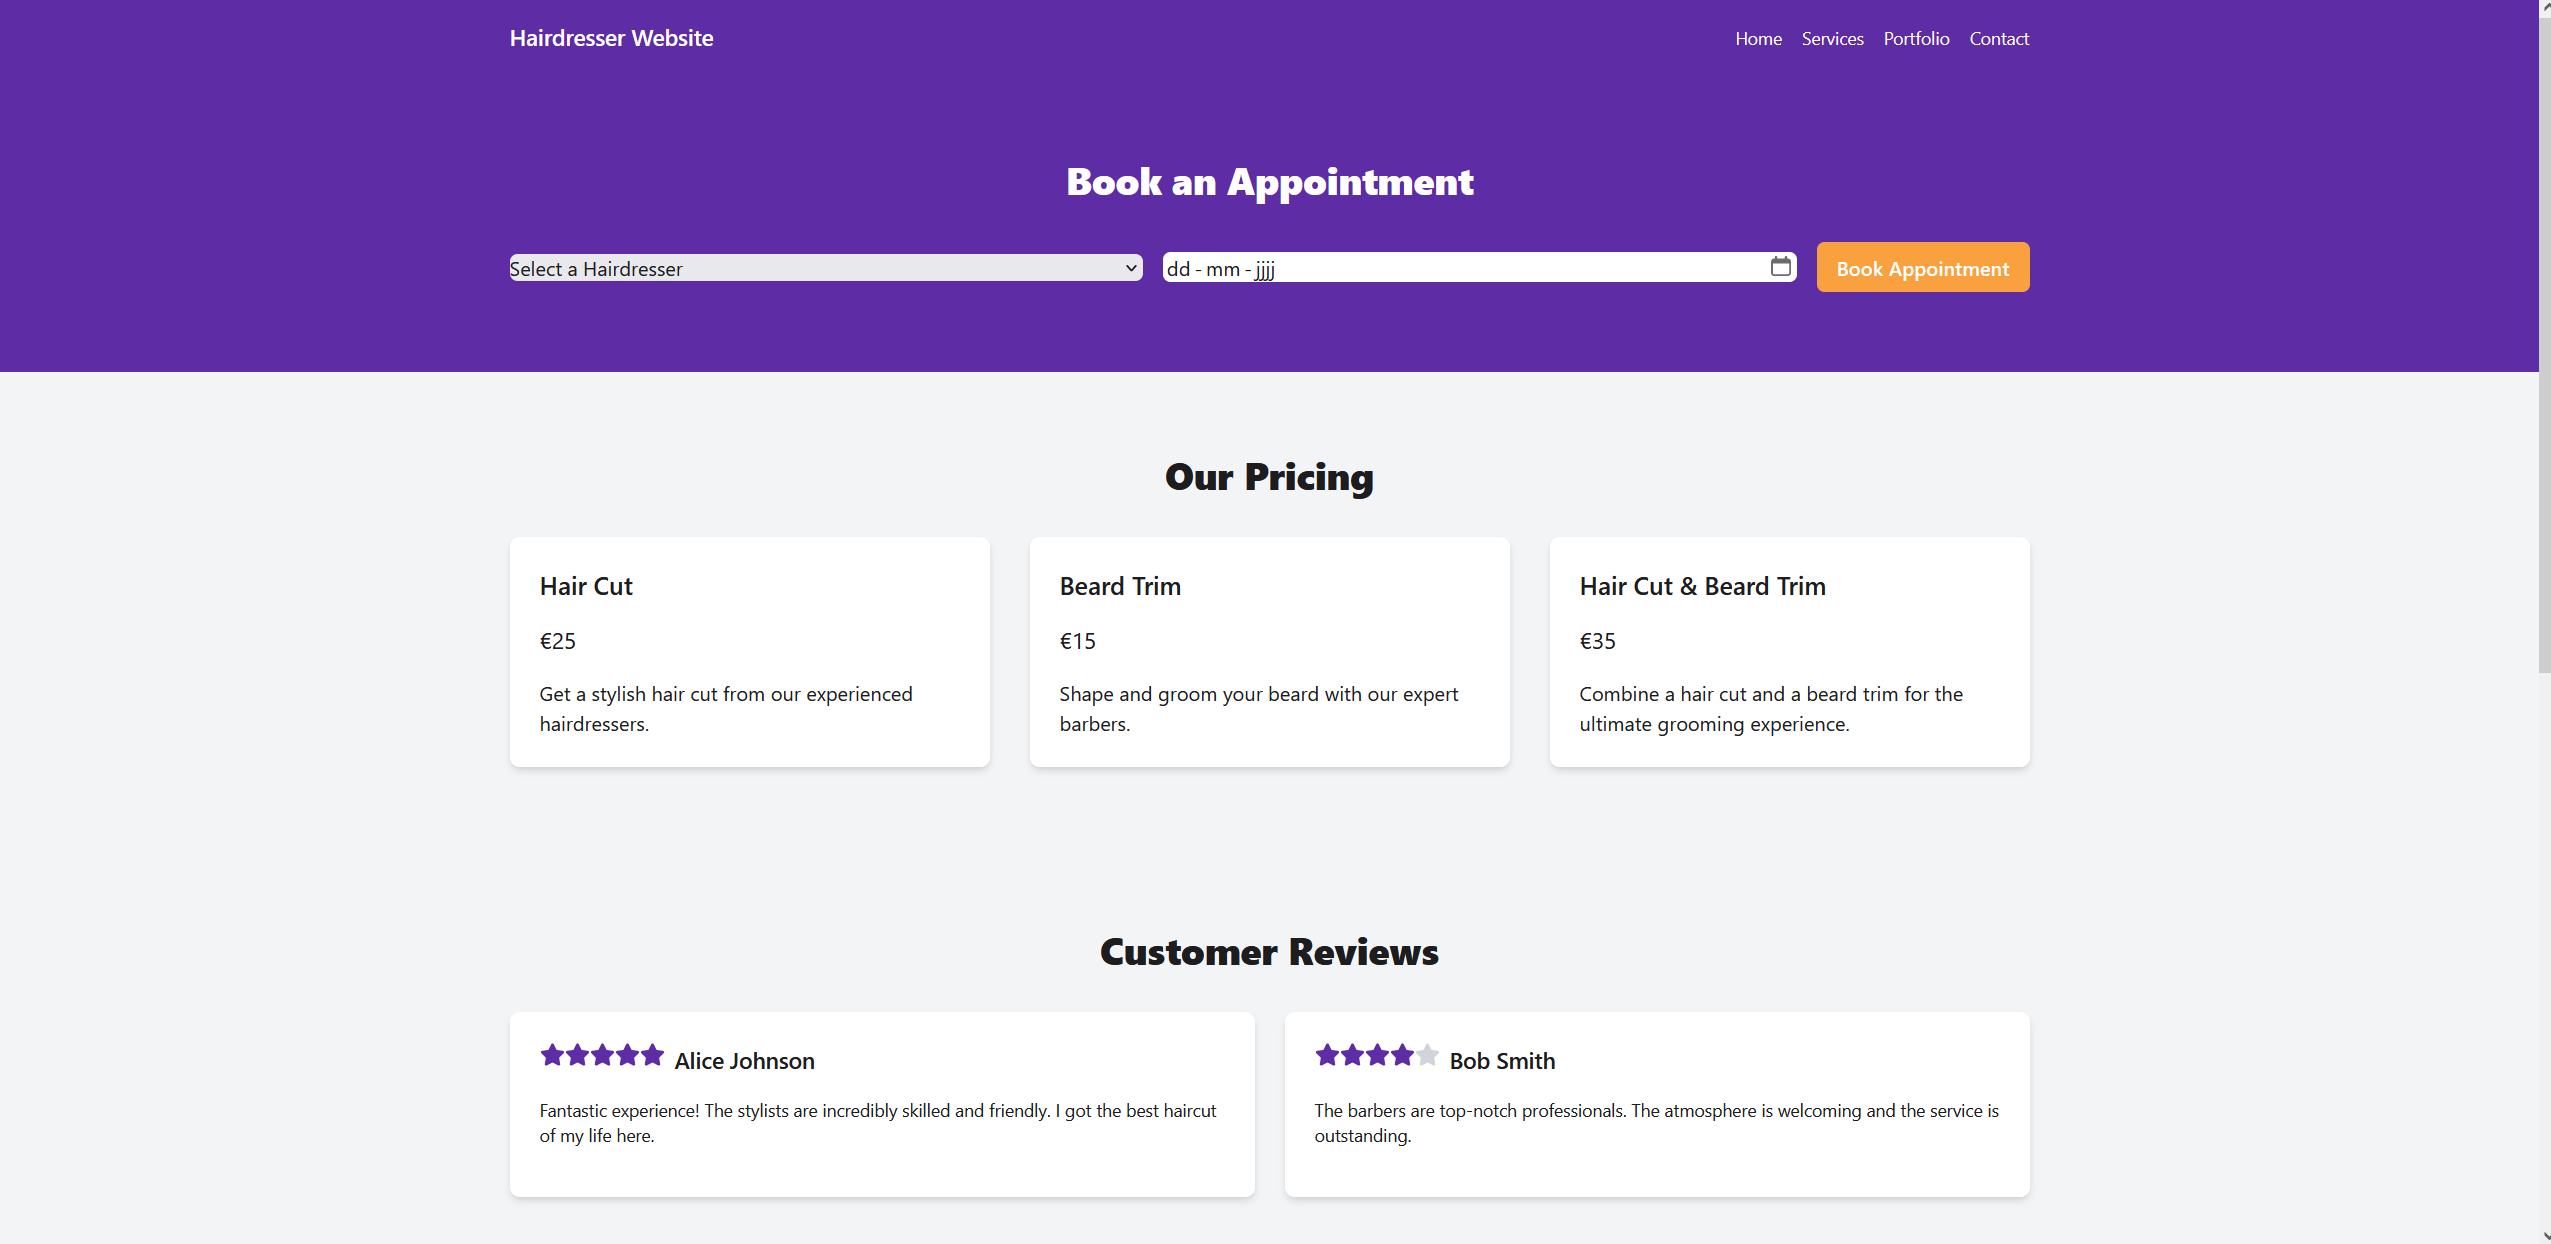
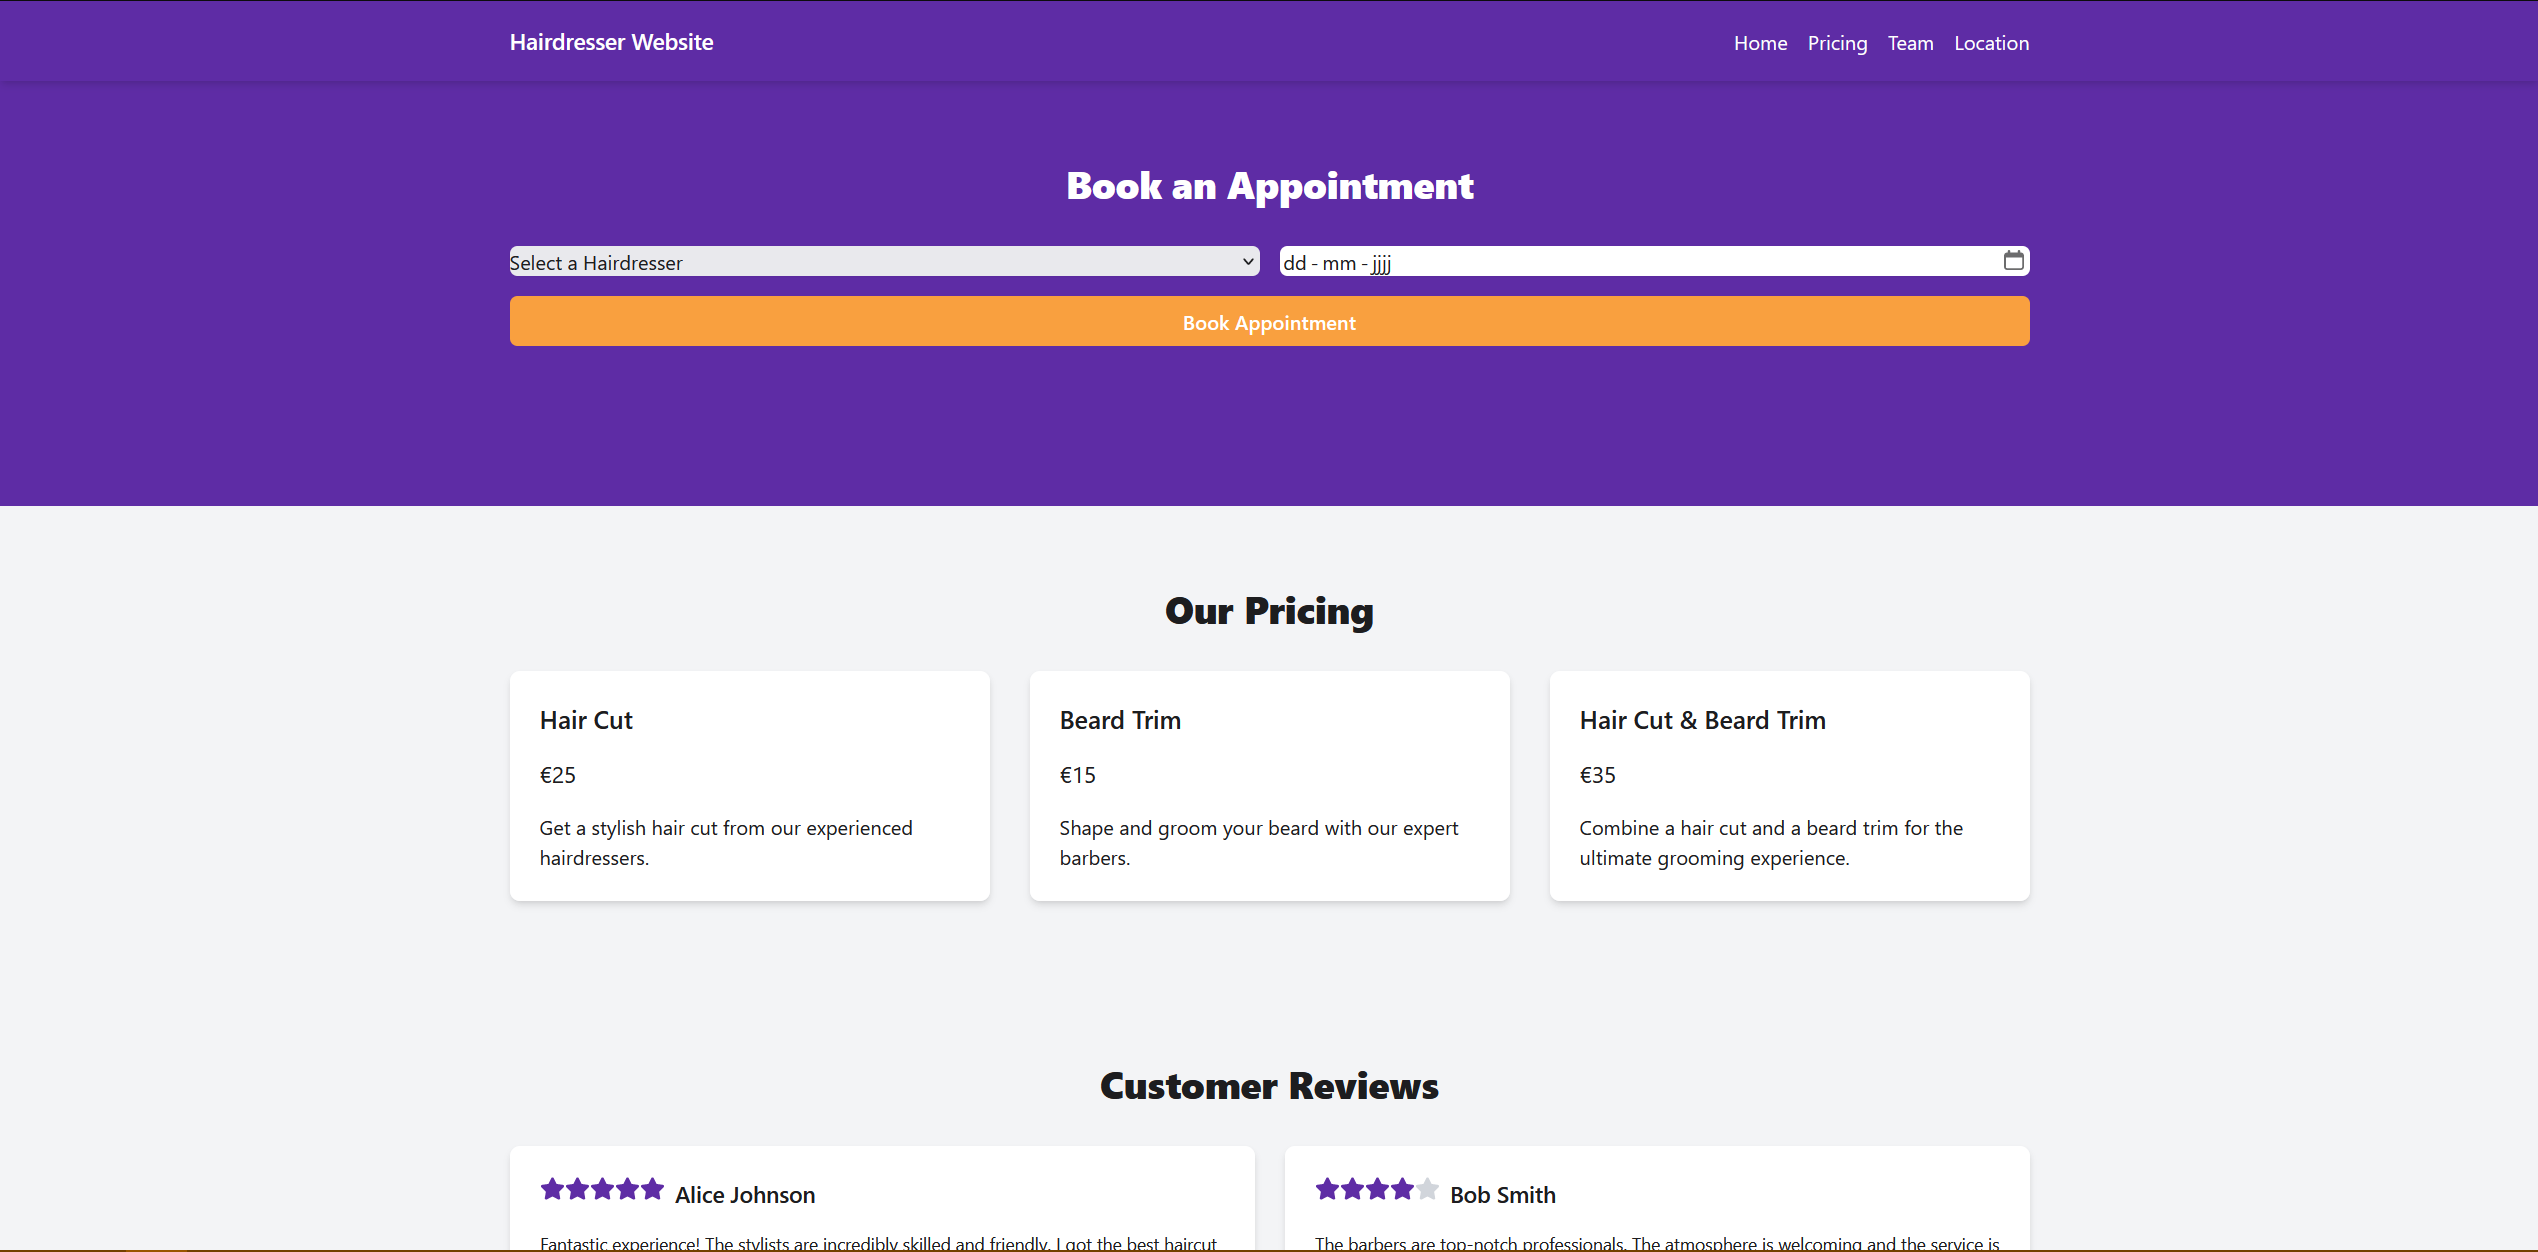
updates hero

diff --git a/demannekesfc/src/hairdresser/components/hero/Hero.js b/demannekesfc/src/hairdresser/components/hero/Hero.js
@@ -1,8 +1,8 @@
 import React, { useState } from "react";
 
 function Hero() {
-  const [selectedHairdresser, setSelectedHairdresser] = useState(null);
-  const [selectedDate, setSelectedDate] = useState(null);
+  const [selectedHairdresser, setSelectedHairdresser] = useState("");
+  const [selectedDate, setSelectedDate] = useState("");
 
   const hairdressers = [
     { id: 1, name: "John Doe" },
@@ -30,42 +30,38 @@ function Hero() {
   };
 
   return (
-    <div id="hero" className="bg-temp-primary text-temp-text py-16">
+    <div id="hero" className="bg-temp-primary text-temp-text py-32">
       <div className="max-w-7xl mx-auto px-4 sm:px-6 lg:px-8">
         <h1 className="text-3xl font-extrabold text-center mb-8 text-white">
           Book an Appointment
         </h1>
-        <div className="flex flex-col md:flex-row items-center justify-center space-y-4 md:space-y-0 md:space-x-4">
-          <div className="flex-1">
-            <select
-              className="block w-full rounded-md border-gray-300 shadow-sm focus:border-temp-primary focus:ring focus:ring-temp-primary focus:ring-opacity-50"
-              value={selectedHairdresser || ""}
-              onChange={handleHairdresserChange}
-            >
-              <option value="">Select a Hairdresser</option>
-              {hairdressers.map((hairdresser) => (
-                <option key={hairdresser.id} value={hairdresser.name}>
-                  {hairdresser.name}
-                </option>
-              ))}
-            </select>
-          </div>
-          <div className="flex-1">
-            <input
-              type="date"
-              className="block w-full rounded-md border-gray-300 shadow-sm focus:border-temp-primary focus:ring focus:ring-temp-primary focus:ring-opacity-50"
-              value={selectedDate || ""}
-              onChange={handleDateChange}
-            />
-          </div>
-          <div>
-            <button
-              className="px-4 py-2 rounded-md bg-temp-secondary hover:bg-temp-accent text-white font-semibold"
-              onClick={handleAppointmentSubmit}
-            >
-              Book Appointment
-            </button>
-          </div>
+        <div className="grid grid-cols-1 md:grid-cols-2 gap-4">
+          <select
+            className="w-full rounded-md border-gray-300 shadow-sm focus:border-temp-primary focus:ring focus:ring-temp-primary focus:ring-opacity-50"
+            value={selectedHairdresser}
+            onChange={handleHairdresserChange}
+          >
+            <option value="">Select a Hairdresser</option>
+            {hairdressers.map((hairdresser) => (
+              <option key={hairdresser.id} value={hairdresser.name}>
+                {hairdresser.name}
+              </option>
+            ))}
+          </select>
+          <input
+            type="date"
+            className="w-full rounded-md border-gray-300 shadow-sm focus:border-temp-primary focus:ring focus:ring-temp-primary focus:ring-opacity-50"
+            value={selectedDate}
+            onChange={handleDateChange}
+          />
+        </div>
+        <div className="mt-4">
+          <button
+            className="w-full px-4 py-2 rounded-md bg-temp-secondary hover:bg-temp-accent text-white font-semibold"
+            onClick={handleAppointmentSubmit}
+          >
+            Book Appointment
+          </button>
         </div>
       </div>
     </div>
